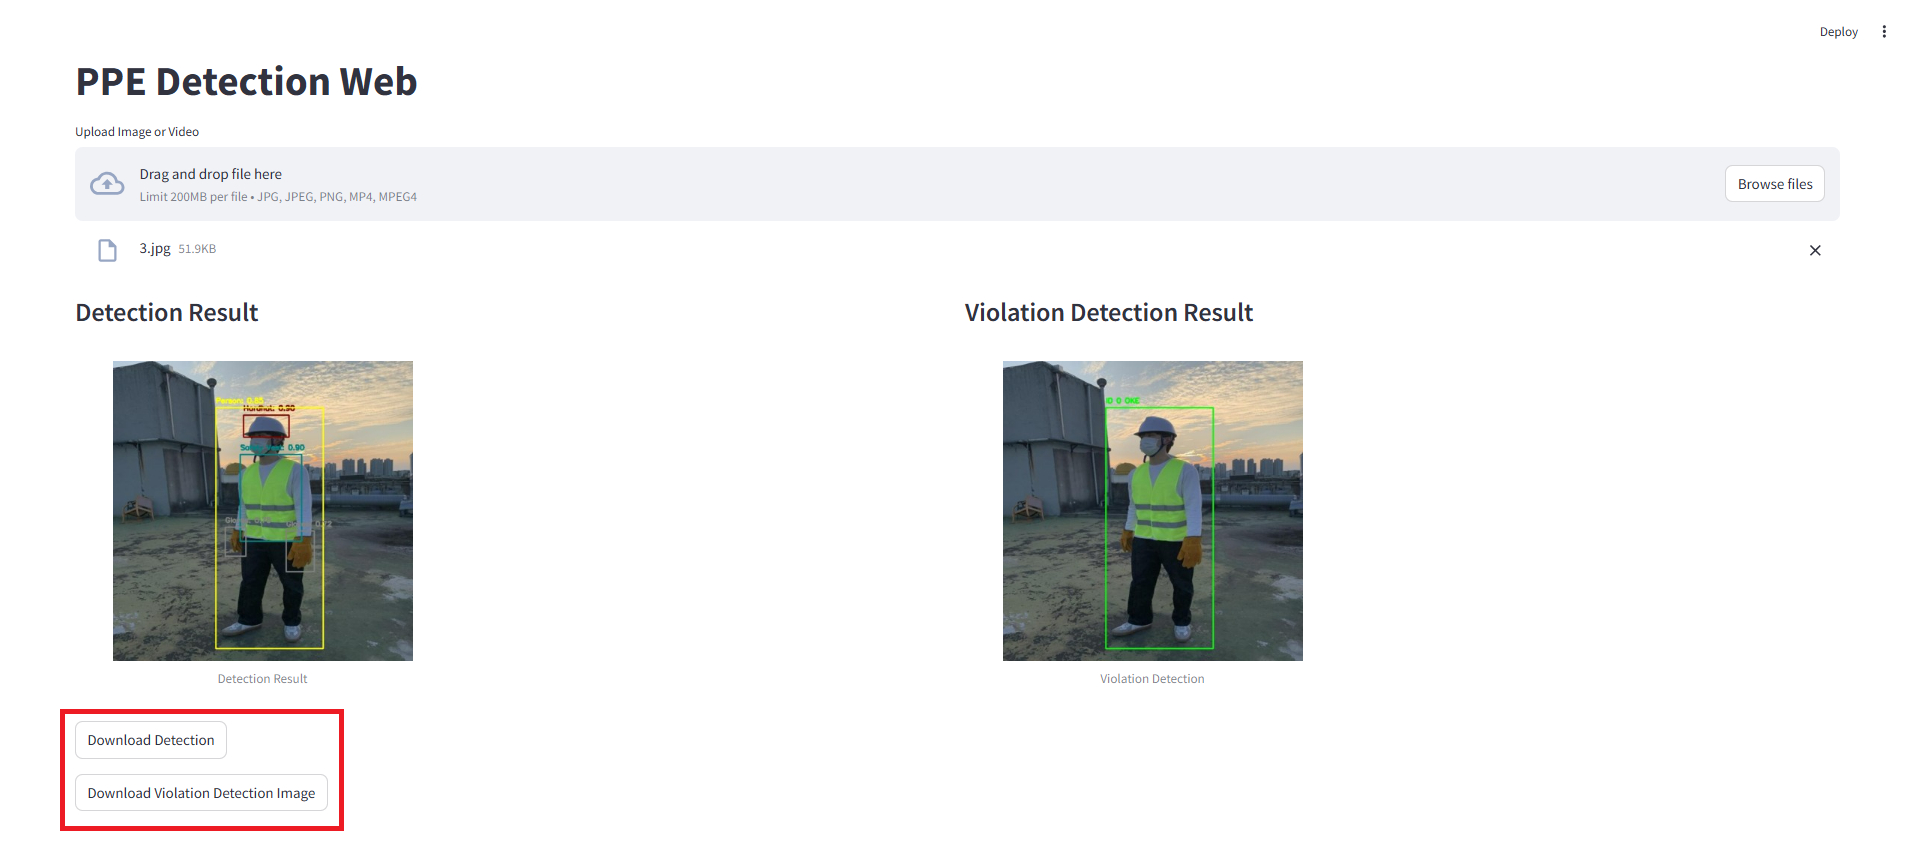
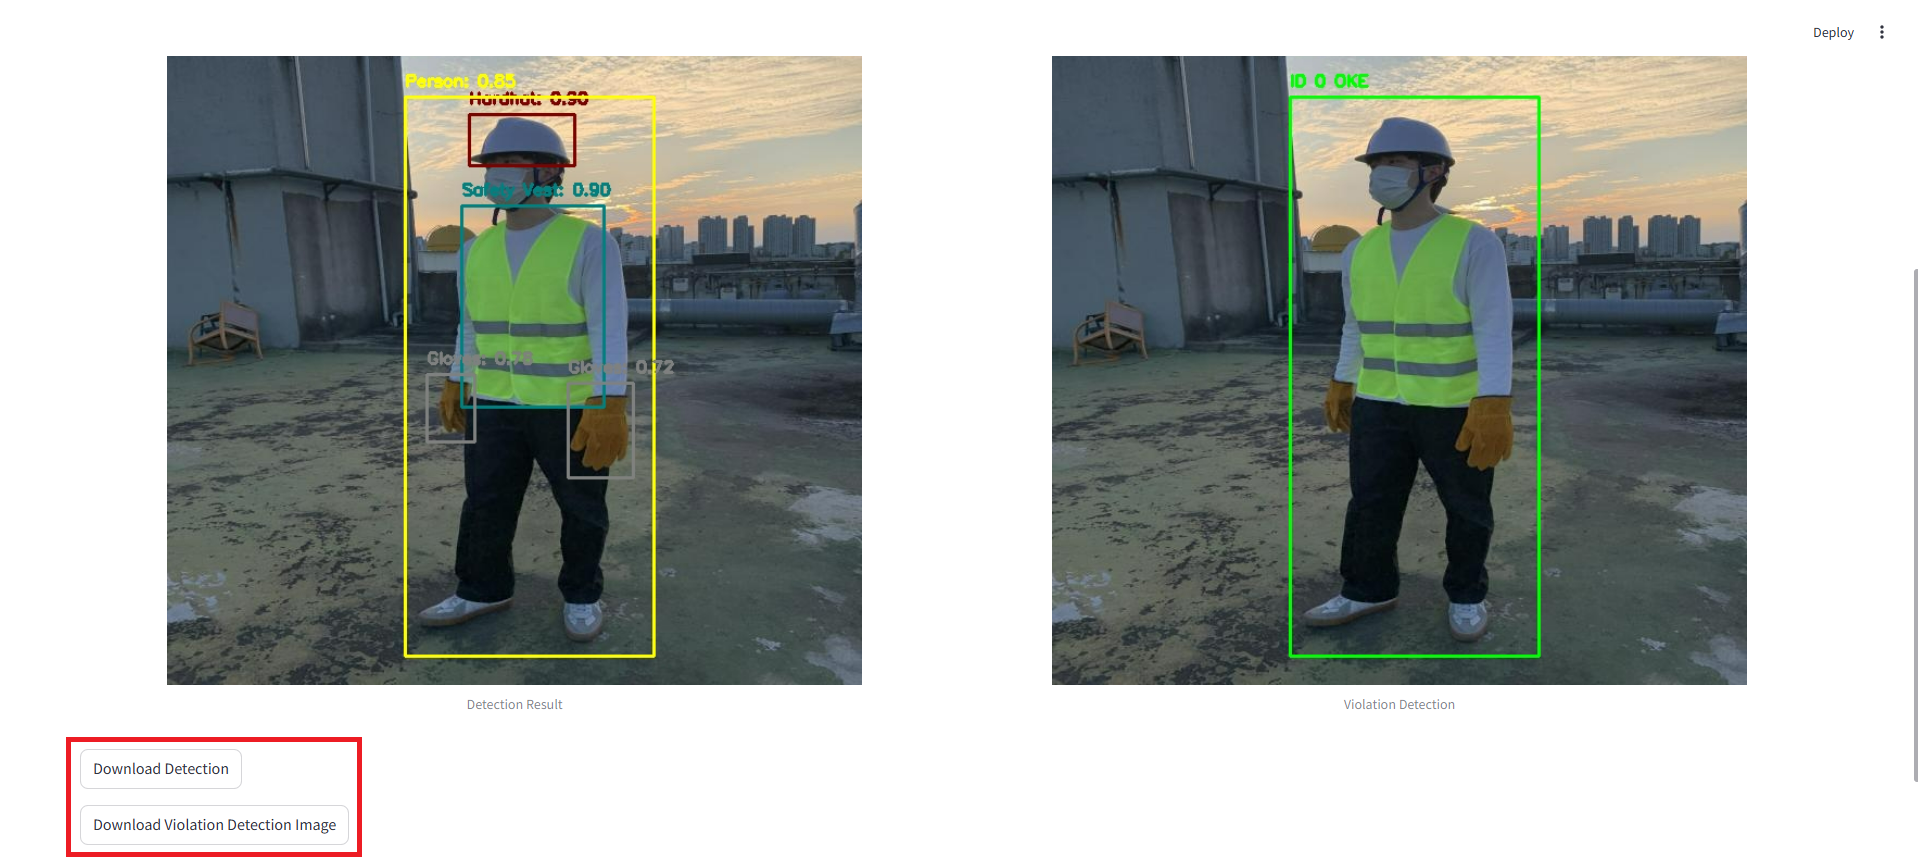
fix app.py

diff --git a/web/app.py b/web/app.py
@@ -142,13 +142,13 @@ def main():
                 st.subheader("Detection Result")
                 with st.container():
                     st.markdown('<div class="image-container">', unsafe_allow_html=True)
-                    st.image(detection_result, caption="Detection Result", width=400)  
+                    st.image(detection_result, caption="Detection Result", width=5000)  
                     st.markdown('</div>', unsafe_allow_html=True)
             with col2:
                 st.subheader("Violation Detection Result")
                 with st.container():
                     st.markdown('<div class="image-container">', unsafe_allow_html=True)
-                    st.image(violation_result, caption="Violation Detection", width=400) 
+                    st.image(violation_result, caption="Violation Detection", width=5000) 
                     st.markdown('</div>', unsafe_allow_html=True)
 
             #! Download processed image
